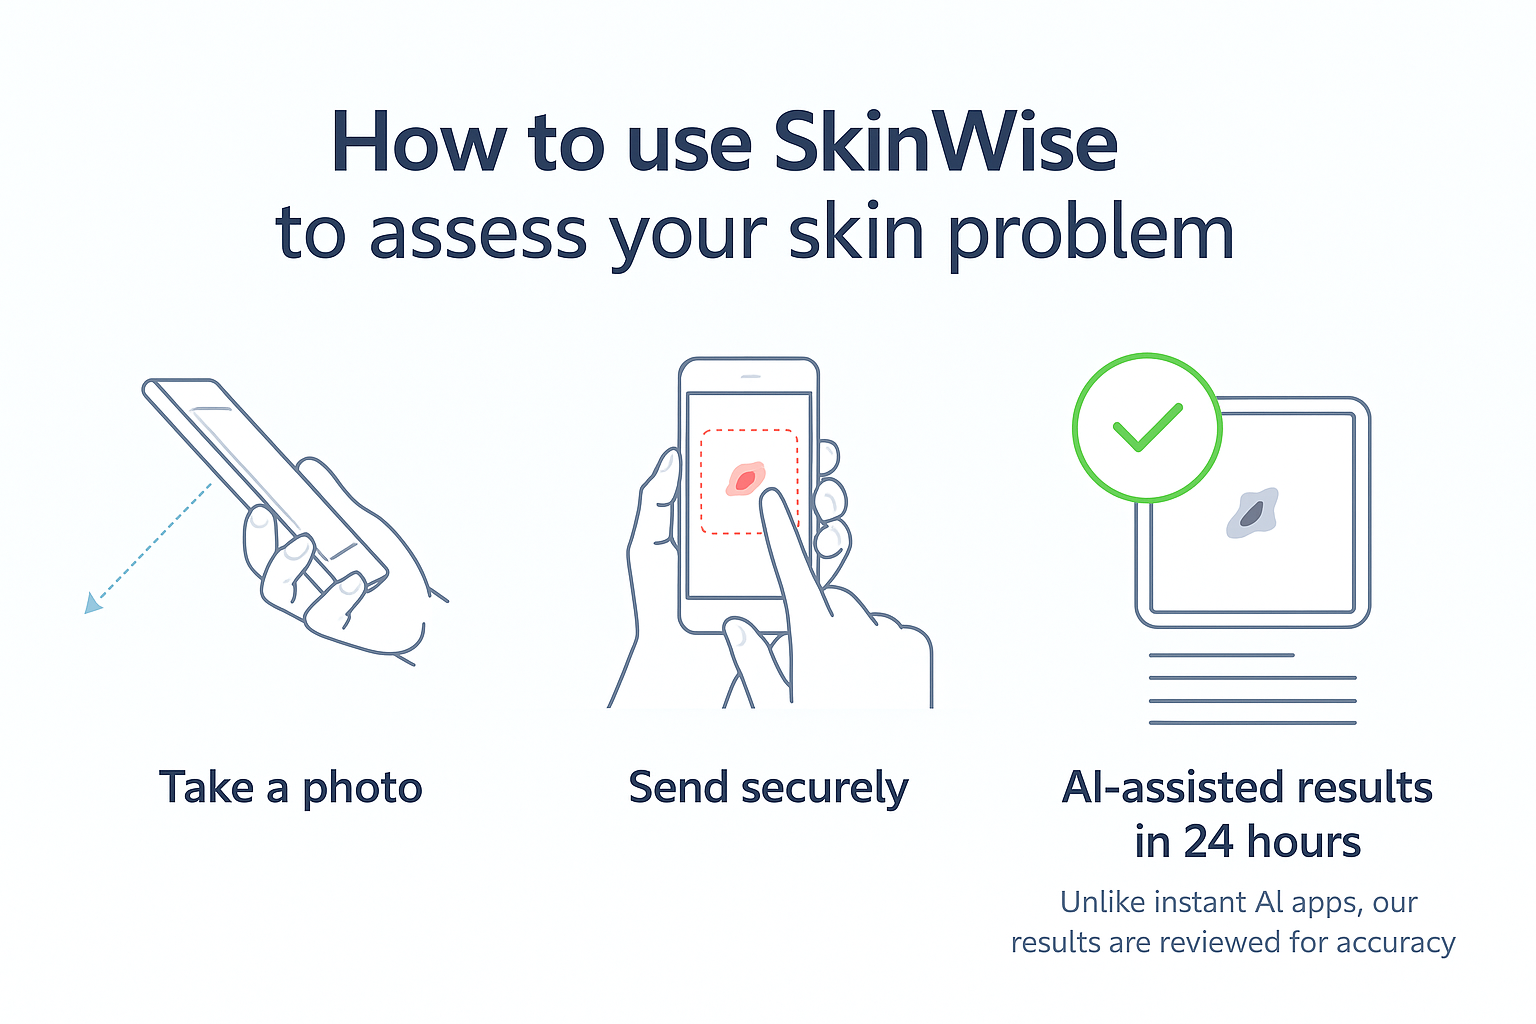
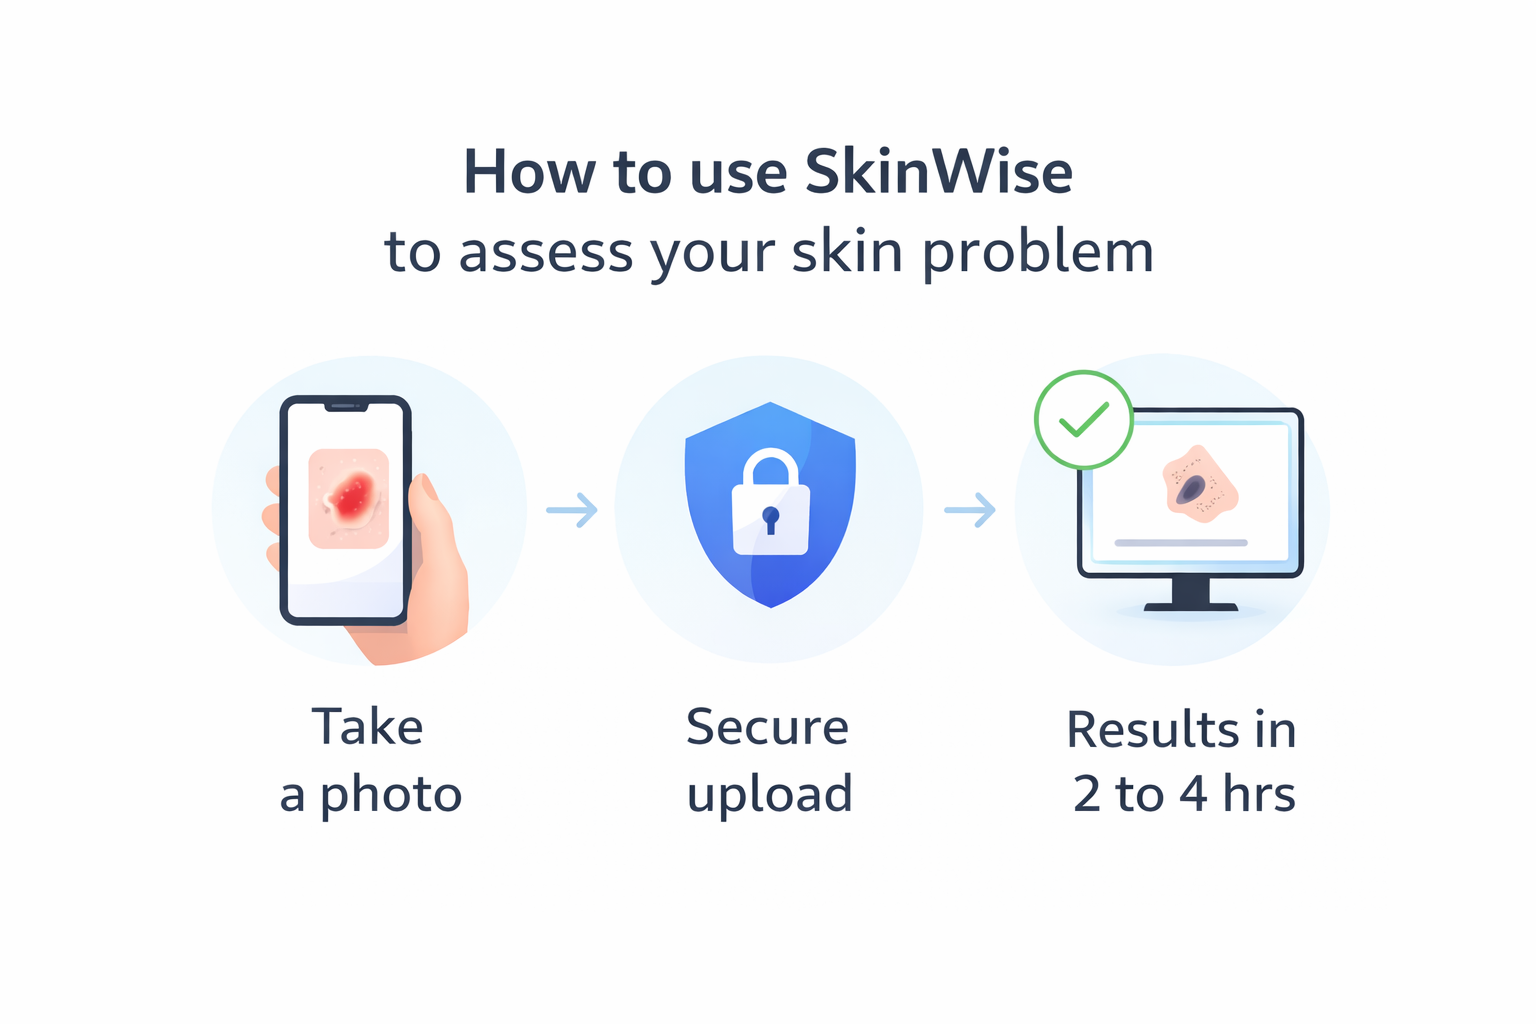
chore: homepage trust and hero improvements

diff --git a/app/page.tsx b/app/page.tsx
@@ -3,7 +3,7 @@
 import Link from "next/link"
 import { Button } from "@/components/ui/button"
 import { Card, CardContent, CardHeader, CardTitle } from "@/components/ui/card"
-import { CheckCircle, Shield, UserCheck, Stethoscope, Menu, X, ChevronDown, HelpCircle, Quote, User, FileText } from "lucide-react"
+import { CheckCircle, Shield, UserCheck, Stethoscope, Menu, X, ChevronDown, HelpCircle, Quote, User, FileText, Lock, UserX } from "lucide-react"
 import { useState, useEffect, useCallback } from "react"
 import { detectUserCurrency, formatPrice, formatDermatologistPrice } from '@/lib/currency'
 
@@ -204,18 +204,18 @@ export default function LandingPage() {
       {/* Hero Section - Trust-Forward, Clinical */}
       <section className="bg-gradient-to-br from-slate-50 via-white to-teal-50">
         <div className="max-w-7xl mx-auto px-4 sm:px-6 lg:px-8 py-4 sm:py-5 lg:py-8">
-          <div className="text-center space-y-3 sm:space-y-4">
-            {/* How to Use Graphic - Compact */}
-            <div className="w-full max-w-[92%] sm:max-w-sm md:max-w-lg lg:max-w-xl mx-auto px-2 sm:px-0">
+          <div className="text-center space-y-2 sm:space-y-3">
+            {/* How to Use Graphic - Mobile-first, wider on small screens */}
+            <div className="w-full max-w-md sm:max-w-lg md:max-w-xl lg:max-w-2xl mx-auto px-2 sm:px-0">
               <img 
                 src="/how-to-use-skinwise.png" 
                 alt="How to use SkinWise - Take a photo, Send securely, results reviewed by a human" 
-                className="w-full h-auto object-contain max-h-32 sm:max-h-40 md:max-h-48 lg:max-h-56 xl:max-h-64 drop-shadow-lg rounded-lg sm:rounded-xl shadow-sm"
+                className="w-full h-auto object-contain max-h-40 sm:max-h-52 md:max-h-64 lg:max-h-72 xl:max-h-80 rounded-xl sm:rounded-2xl shadow-sm"
               />
             </div>
 
             {/* Headlines - Trust-forward, clinical */}
-            <div className="space-y-1 sm:space-y-2 max-w-4xl mx-auto">
+            <div className="space-y-1 sm:space-y-1.5 max-w-4xl mx-auto">
               <h1 className="text-lg sm:text-xl md:text-2xl lg:text-3xl xl:text-4xl font-bold text-gray-900 leading-tight">
                 Fast skin photo assessment:{" "}
                 <span className="text-teal-700">reviewed by a human</span>
@@ -223,6 +223,9 @@ export default function LandingPage() {
               <h2 className="text-xs sm:text-sm md:text-base lg:text-lg text-gray-700 leading-relaxed max-w-2xl mx-auto">
                 Upload photos & a short description. We'll send a clear analysis + a doctor-friendly note. <strong>Private by default</strong>, no names shared with reviewers.
               </h2>
+              <p className="text-xs sm:text-xs md:text-sm text-gray-500 max-w-2xl mx-auto">
+                One-time assessment fee. No subscription.
+              </p>
             </div>
 
             {/* AI mention - demoted to secondary text */}
@@ -234,12 +237,36 @@ export default function LandingPage() {
             <div className="max-w-sm mx-auto space-y-1.5">
               <Link href="/login">
                 <Button className="w-full bg-teal-700 hover:bg-teal-800 text-white text-sm sm:text-base py-2.5 sm:py-3 px-6 shadow-lg transition-colors">
-                  Start Skin Assessment
+                  Start Secure Skin Assessment
                 </Button>
               </Link>
               <p className="text-xs sm:text-sm text-gray-600 text-center">
                 {currencyLoading ? '£6' : formatPrice(userCurrency)} • Results in 2 to 4 hours
               </p>
+              <p className="text-xs text-gray-500 text-center leading-snug">
+                If your concern appears urgent, we will clearly advise in-person care.
+              </p>
+              
+              {/* Trust Indicators - Compact */}
+              <div className="grid grid-cols-2 sm:grid-cols-4 gap-3 sm:gap-4 pt-2 pb-1 max-w-md mx-auto">
+                <div className="flex items-center justify-center sm:justify-start space-x-1.5">
+                  <Lock className="h-3.5 w-3.5 text-gray-700 flex-shrink-0" />
+                  <span className="text-xs font-medium text-gray-800">Encrypted uploads</span>
+                </div>
+                <div className="flex items-center justify-center sm:justify-start space-x-1.5">
+                  <UserX className="h-3.5 w-3.5 text-gray-700 flex-shrink-0" />
+                  <span className="text-xs font-medium text-gray-800">Anonymous option</span>
+                </div>
+                <div className="flex items-center justify-center sm:justify-start space-x-1.5">
+                  <Shield className="h-3.5 w-3.5 text-gray-700 flex-shrink-0" />
+                  <span className="text-xs font-medium text-gray-800">Private by default</span>
+                </div>
+                <div className="flex items-center justify-center sm:justify-start space-x-1.5">
+                  <UserCheck className="h-3.5 w-3.5 text-gray-700 flex-shrink-0" />
+                  <span className="text-xs font-medium text-gray-800">Human reviewed</span>
+                </div>
+              </div>
+              
               <div className="flex flex-col items-center space-y-1 pt-1">
                 <Link 
                   href="#example-reports" 
